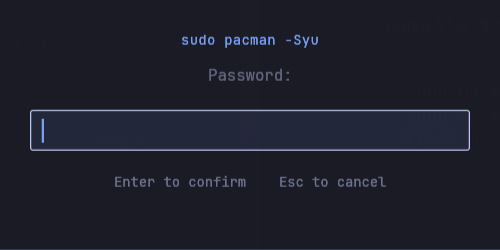
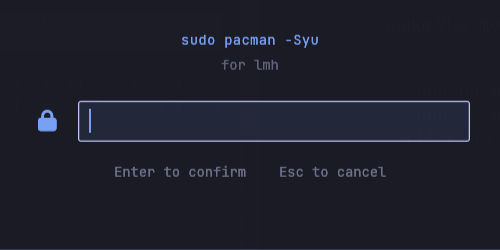
창에 자물쇠 글리프와 인증 대상 사용자를 보여 주다
폴킷 헬퍼의 프롬프트는 밋밋한 "Password:" 라 누구 것인지 안 나온다.
sudo 경로의 "[sudo] password for lmh:" 가 보여 주던 것을 되살린다.

- Subject 에 user 추가. 에이전트 경로는 선택된 신원, sudo 경로는 현재
  사용자를 넣는다. 명령 아래 "for <user>" 로 표시
- "Password:" 텍스트 대신 입력칸 앞에 자물쇠 글리프(Nerd Font )를
  둔다 — 시스템 다이얼로그와 같은 모양. ECHO_ON(OTP 등) 프롬프트는
  글자를 그대로 보여 준다
- 스크린샷을 새 창 모양으로 교체

diff --git a/src/gui.rs b/src/gui.rs
@@ -28,6 +28,11 @@ pub const APP_ID: &str = "sudo-askpass";
 
 const WINDOW_SIZE: [f32; 2] = [400.0, 200.0];
 
+/// Nerd Font padlock (nf-fa-lock) -- the same glyph the system polkit dialog
+/// uses. The Omarchy monospace font carries it; without a Nerd Font egui draws
+/// a box, so this assumes the target platform (Omarchy) it is built for.
+const LOCK_GLYPH: &str = "\u{f023}";
+
 /// Give up a little after the caller does.
 ///
 /// polkit callers stop waiting at 25 seconds (sd-bus method timeout) and
@@ -56,6 +61,8 @@ pub struct Subject {
     pub command: Option<String>,
     /// polkit's own wording, used when there is no command to show.
     pub message: String,
+    /// Whose password is being asked. The helper's prompt never says.
+    pub user: Option<String>,
 }
 
 /// Show the window and pump it until the conversation ends.
@@ -186,10 +193,9 @@ impl eframe::App for Window {
             .inner_margin(24)
             .show(ui, |ui| {
                 ui.vertical_centered_justified(|ui| {
-                    // The command leads: it is the one piece of information
-                    // here, and the only cue that something unexpected is what
-                    // is asking. polkit's own message says nothing useful for
-                    // run0, so it is the fallback rather than the headline.
+                    // The command leads: the one cue that something unexpected is
+                    // asking. polkit's own message says nothing useful for run0, so
+                    // it is the fallback rather than the headline.
                     let headline = self
                         .subject
                         .command
@@ -204,32 +210,71 @@ impl eframe::App for Window {
                         )
                         .truncate(),
                     );
-                    ui.add_space(10.0);
 
-                    ui.label(
-                        egui::RichText::new(&self.prompt)
-                            .size(12.5)
-                            .color(ui.visuals().text_color().gamma_multiply(0.5)),
-                    );
-                    ui.add_space(16.0);
+                    // Whose password this is. The helper's prompt is a bare
+                    // "Password:" and never says, so the window does.
+                    if let Some(user) = &self.subject.user {
+                        ui.add_space(3.0);
+                        ui.label(
+                            egui::RichText::new(format!("for {user}"))
+                                .size(11.0)
+                                .color(ui.visuals().text_color().gamma_multiply(0.5)),
+                        );
+                    }
+                    ui.add_space(18.0);
 
-                    let field = ui.add_enabled(
-                        !self.waiting,
-                        egui::TextEdit::singleline(self.password.buffer_mut())
-                            .password(!self.echo)
-                            .char_limit(crate::secret::MAX_CHARS)
-                            .font(egui::TextStyle::Monospace)
-                            .margin(egui::Margin::symmetric(10, 8))
-                            .desired_width(f32::INFINITY),
-                    );
-
-                    if !self.focus_set && !self.waiting {
-                        field.request_focus();
-                        self.focus_set = true;
+                    // A prompt that is not a plain password (an OTP, a question)
+                    // still needs its words; a password is spoken by the lock alone.
+                    if self.echo && !self.prompt.is_empty() {
+                        ui.label(
+                            egui::RichText::new(&self.prompt)
+                                .size(11.5)
+                                .color(ui.visuals().text_color().gamma_multiply(0.5)),
+                        );
+                        ui.add_space(8.0);
                     }
 
-                    let entered =
-                        field.lost_focus() && ui.input(|i| i.key_pressed(egui::Key::Enter));
+                    // A lock glyph in front of the field, like the system dialog --
+                    // no "Password:" label.
+                    let entered = ui
+                        .horizontal(|ui| {
+                            // Centre the glyph in a box the height of the field,
+                            // so it lines up with the input rather than riding high.
+                            let field_h =
+                                ui.text_style_height(&egui::TextStyle::Monospace) + 16.0;
+                            ui.add_sized(
+                                [24.0, field_h],
+                                egui::Label::new(
+                                    egui::RichText::new(LOCK_GLYPH)
+                                        .size(18.0)
+                                        .family(egui::FontFamily::Monospace)
+                                        .color(ui.visuals().hyperlink_color),
+                                ),
+                            );
+                            ui.add_space(6.0);
+                            let field = ui.add_enabled(
+                                !self.waiting,
+                                egui::TextEdit::singleline(self.password.buffer_mut())
+                                    .password(!self.echo)
+                                    .char_limit(crate::secret::MAX_CHARS)
+                                    .font(egui::TextStyle::Monospace)
+                                    .margin(egui::Margin::symmetric(10, 8))
+                                    .desired_width(f32::INFINITY),
+                            );
+                            if !self.focus_set && !self.waiting {
+                                field.request_focus();
+                                self.focus_set = true;
+                            }
+                            let entered = field.lost_focus()
+                                && ui.input(|i| i.key_pressed(egui::Key::Enter));
+                            // An empty line reads as a wrong password and costs an
+                            // attempt, so keep the window open instead of submitting.
+                            if entered && !self.waiting && self.password.is_empty() {
+                                field.request_focus();
+                            }
+                            entered
+                        })
+                        .inner;
 
                     ui.add_space(14.0);
                     match (&self.notice, self.waiting) {
@@ -251,14 +296,8 @@ impl eframe::App for Window {
                         ),
                     };
 
-                    if entered && !self.waiting {
-                        if self.password.is_empty() {
-                            // An empty line reads as a wrong password and costs
-                            // an attempt, so it just keeps the window open.
-                            field.request_focus();
-                        } else {
-                            self.submit();
-                        }
+                    if entered && !self.waiting && !self.password.is_empty() {
+                        self.submit();
                     }
                 });
             });

diff --git a/src/prompt.rs b/src/prompt.rs
@@ -117,6 +117,9 @@ pub fn run() -> ! {
     }
     let warning = budget.and_then(|budget| budget.warning());
 
+    // Kept for the window before `username` is moved into the worker.
+    let user_display = username.clone();
+
     let (to_ui_tx, to_ui_rx) = channel::<ToUi>();
     let (from_ui_tx, from_ui_rx) = channel::<FromUi>();
 
@@ -140,6 +143,7 @@ pub fn run() -> ! {
             .then(|| invocation::command_of(subject_pid))
             .flatten(),
         message,
+        user: (!user_display.is_empty()).then_some(user_display),
     };
 
     if let Err(e) = gui::run(subject, to_ui_rx, from_ui_tx) {

diff --git a/src/askpass.rs b/src/askpass.rs
@@ -83,9 +83,13 @@ pub fn run(prompt: Option<OsString>) -> ! {
         written
     });
 
+    // sudo authenticates the invoking user; name them for the window.
+    // SAFETY: getuid cannot fail.
+    let user = crate::username(unsafe { libc::getuid() });
     let subject = Subject {
         command: invocation::command_from_sudo(),
         message: "sudo".to_owned(),
+        user,
     };
 
     if let Err(e) = gui::run(subject, to_ui_rx, from_ui_tx) {
